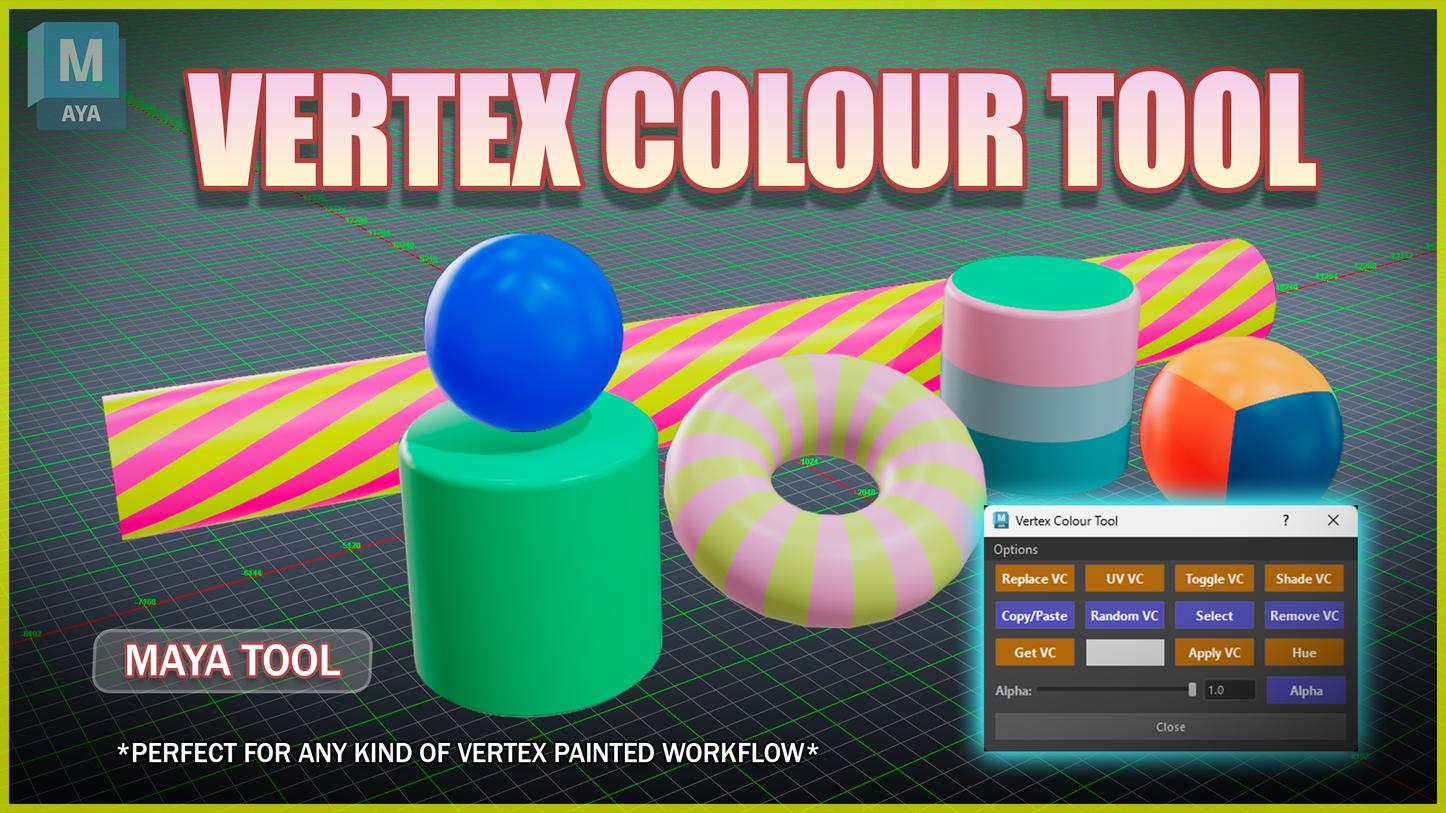
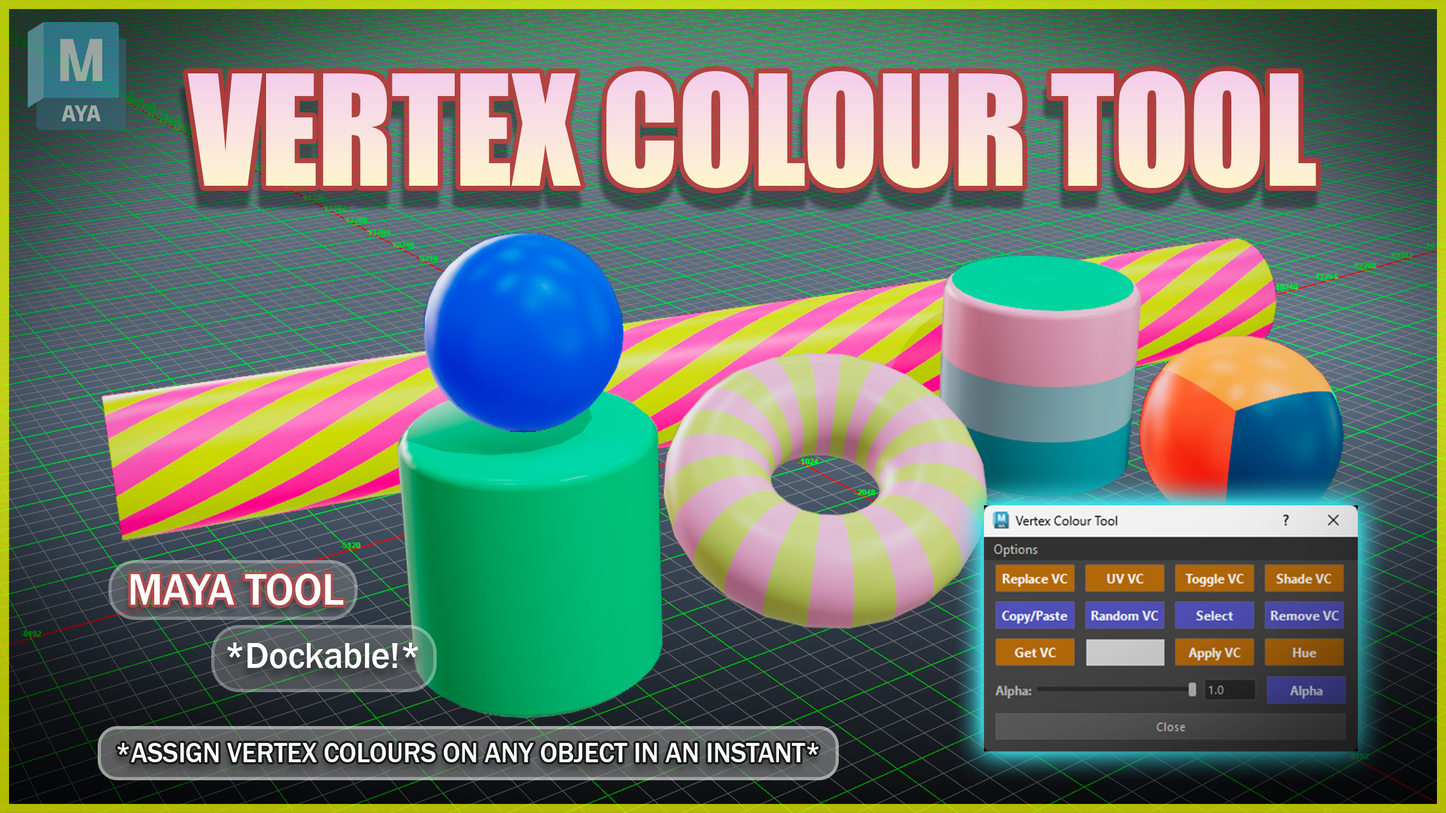
updated docs images
updated docs images

Changed region(s): [[0.0625, 0.6875, 0.5938, 0.9688]]

diff --git a/docs/Batch Material Creation/Breakdown.md b/docs/Batch Material Creation/Breakdown.md
@@ -263,6 +263,80 @@ The Swap Texture feature allows you to instantly swap texture maps *(such as Alb
 
     ![Batch Exporter Window](images/Batch_Material_Creation_Swap_1.png){ .img-small .img-centered} 
 
+
+
+
+## <span style="color:rgb(199, 192, 99);">**Stored Paths**</span>
+
+The path field is a dropdown that remembers the folders you use. Paths are stored globally, so they persist across scenes and Maya sessions. 
+
+???+ Tip "Tip - Long Paths"
+    * Long paths that don't fit in the field can be read in full by hovering the dropdown entry (tooltip).
+
+
+
+
+<figure style="text-align: center;">
+    <img src="../../Batch Material Creation/images/BMC_Temp_Paths_1.gif" ...>
+    <figcaption><span style="color:rgba(22, 165, 110, 1);">Storing Temp paths from folder dropping</span></figcaption>
+</figure>
+
+
+
+### How paths get stored
+
+- A folder is added to the top of the dropdown whenever you:
+
+    * Pick a folder through the browse dialog
+    * Type or paste a valid path and press Enter (or click away from the field)
+    * Drag and drop one or more folders from Explorer anywhere onto the tool window
+    * Use the path in an export / import / material creation
+
+### Pinned favorites (<span style="color:rgb(199, 192, 99);">**★**</span>)
+
+- Click the star button next to the path field to pin the current folder as a favorite.
+
+    <figure style="text-align: center;">
+        <img src="../../Batch Material Creation/images/BMC_Temp_Paths_3.gif" ...>
+        <figcaption><span style="color:rgba(22, 165, 110, 1);">Pinning Favorites</span></figcaption>
+    </figure>
+
+
+    * Favorites always stay at the top of the dropdown, marked with a gold star.
+    * Favorites never fall out of the list and survive "clear all recent paths".
+    * Favorites are protected from deletion — unpin them first (click the star again) to remove them.
+
+
+### Missing folder detection
+
+- Every time you open the dropdown, the tool checks whether each stored folder still exists on disk.
+
+
+    <figure style="text-align: center;">
+        <img src="../../Batch Material Creation/images/BMC_Temp_Paths_2.gif" ...>
+        <figcaption><span style="color:rgba(22, 165, 110, 1);">Missing paths</span></figcaption>
+    </figure>
+
+    * Folders that no longer exist (renamed, moved, or deleted) are shown with a faint red background.
+    * Hovering the entry shows the full path with a "folder no longer exists" note.
+    * The check runs live on every click, so changes on disk show up immediately — no restart needed.
+
+- The path field itself also turns red while it contains an invalid path, and clears back to normal as soon as the path is valid (or the field is emptied).
+
+### Removing stored paths
+
+- All removal shortcuts are on the folder *(Select Folder Path)* button:
+
+    <figure style="text-align: center;">
+        <img src="../../Batch Material Creation/images/BMC_Temp_Paths_4.gif" ...>
+        <figcaption><span style="color:rgba(22, 165, 110, 1);">Removing Paths</span></figcaption>
+    </figure>
+
+    * ++ctrl++ + Click	Delete all recent paths (pinned favorites are kept)
+    * ++ctrl++ + ++shift++ + Click	Remove only the path currently shown in the field
+
+
+
 ## **<span style="color:rgb(71, 187, 119);">Options Menu</span>**
 
 ![Batch Exporter Window](images/Batch_Material_Creation_Buttons_2.png){ .img-small } 
@@ -403,3 +477,13 @@ The Refresh Settings section allows you to fine-tune how the Refresh button beha
 - You don't need to use all channels. Any unchecked options will be ignored during material setup, leaving those shader attributes untouched.
 
 ![Batch Exporter Window](images/Batch_Material_Creation_add_Pref_5.png){ .img-medium} 
+
+
+## **<span style="color:rgb(71, 187, 119);">Dockable</span>** 
+
+- The tool is dockable in the Maya UI.
+
+<figure style="text-align: center;">
+    <img src="../../Batch Material Creation/images/BMC_Dockable_1.gif" ...>
+    <figcaption><span style="color:rgba(22, 165, 110, 1);">Docking the tool</span></figcaption>
+</figure>

diff --git a/docs/Batch Exporter/Breakdown.md b/docs/Batch Exporter/Breakdown.md
@@ -58,6 +58,13 @@ The path field is a dropdown that remembers the folders you use. Paths are store
 ???+ Tip "Tip - Long Paths"
     * Long paths that don't fit in the field can be read in full by hovering the dropdown entry (tooltip).
 
+### <span style="color:rgb(199, 192, 99);">**Difference between Stored paths and Additional paths**</span> 
+
+- **Recent Paths (the dropdown)** — just a memory helper. The tool remembers the last 10 folders you've used, plus any you've pinned as favorites (★), and offers them in the dropdown so you don't have to browse again. They're saved in Maya itself, so you see the same list in every scene. Picking one doesn't export anywhere — it just fills in the main Export Path for you.
+
+
+
+- **Additional Export Paths (the drawer)** — actual extra destinations. Each row is a folder your files can export to, with a checkbox to turn it on. Check two or more and your files go to all of them at once; check none and everything goes to the main Export Path. These are saved inside the scene file, so they come back when you reopen that scene *(for more info on Additional Paths click [**here**](#additional-export-paths))*.
 
 
 ## <span style="color:rgb(199, 192, 99);">**How to export**</span>
@@ -349,5 +356,15 @@ Move to Origin will move your objects to the World Origin (0,0,0), export them a
 ## <span style="color:rgb(199, 192, 99);">**Single Export**</span>
 
 [Link to Single Export documentation](../Batch%20Exporter/Buttons_overview.md#single-export){ .md-button .md-button--primary }
+
+
+## **<span style="color:rgb(71, 187, 119);">Dockable</span>** 
+
+- The tool is dockable in the Maya UI.
+
+<figure style="text-align: center;">
+    <img src="../../Batch Exporter/images/Batch_Exporter_Dockable_1.gif" ...>
+    <figcaption><span style="color:rgba(22, 165, 110, 1);">Docking the tool</span></figcaption>
+</figure>
 
 

diff --git a/docs/Select_nth_edge_face_vert/index.md b/docs/Select_nth_edge_face_vert/index.md
@@ -30,6 +30,16 @@ Blazing fast — built on the OpenMaya API
 
 - The Selection Sets module provides a lightweight, keyboard-driven manager for creating, querying, modifying, and selecting Maya objectSet nodes directly from the tool interface—without opening the Outliner or Set Editor.
 
+### <span style="color:rgb(125, 127, 247);">Dockable</span>
+
+- The tool can be integrated within Maya's UI.
+
+<figure markdown="1" style="text-align: center;">
+  ![Pattern Selection on Faces](../Select_nth_edge_face_vert/images/Select_nth_Dockable_1.gif){ .img-medium .img-centered }
+  <figcaption><span style="color: rgba(22, 165, 110, 1);">Docking the tool</span></figcaption>
+</figure>
+
+
 
 ### <span style="color:rgb(125, 127, 247);">Options Menu</span>
 

diff --git a/docs/Batch Material Creation/index.md b/docs/Batch Material Creation/index.md
@@ -25,6 +25,8 @@ Whether you're building massive environment scenes or prepping prop hero assets,
 
 - <span style="color:rgb(171, 199, 69);">Flexible Suffix Mapping & Prefix Controls</span>: Customize naming conventions *(Albedo, Normal, Mask, Opacity)* and automatically handle material prefix overrides (such as converting T_ texture naming to customized material prefixes like MI_).
 
+- <span style="color:rgb(171, 199, 69);">Fully Dockable</span>: The tool can be integrated within Maya's UI. .
+
 ## **<span style="color:rgb(71, 187, 119);">Asset & Scene Maintenance</span>**
 
 - <span style="color:rgb(171, 199, 69);">Refresh & Relink</span>: Missing a map? Instantly scan your folders to find and reconnect lost textures.

diff --git a/docs/Rename Tool/Breakdown.md b/docs/Rename Tool/Breakdown.md
@@ -241,6 +241,14 @@ The <span style="color:rgb(25, 214, 110);">**Select**</span> button is much more
     <figcaption><span style="color:rgba(22, 165, 110, 1);">Delete Empty Groups</span></figcaption>
     </figure>
 
+## <span style="color:rgb(25, 214, 110);">**Docking**</span> 
+- The tool is dockable in the Maya UI.
+
+    <figure markdown>
+    ![Rename](images/Rename_Tool_Docking_1.gif){ .img-medium }
+    <figcaption><span style="color:rgba(22, 165, 110, 1);">Docking</span></figcaption>
+    </figure>
+
 ## <span style="color:rgb(25, 214, 110);">**Important Info**</span> 
 
 - If your order of selection is not renamed correctly please ensure [track selection order](#config-Warning) is checked in the settings.

diff --git a/docs/Batch Exporter/index.md b/docs/Batch Exporter/index.md
@@ -26,7 +26,7 @@ The tool also allows to export objects as a  <span style="color:lime">single fil
 * <span style="color:lime">Warn user of existing files</span> - Does what it says. 
 * <span style="color:lime">Import</span> - Batch Imports files.
 * <span style="color:lime">Freeze transforms</span> - Freezes transforms for Translate, Rotate and Scale.
-* <span style="color:lime">Additional Export Paths</span> - Allows for storing and exporting to multiple folder paths at the same time.
+* <span style="color:lime">Fully Dockable</span> - The tool can be integrated within Maya's UI.
 
 
 <span style="color:pink">Baking Workflow options</span>:

diff --git a/docs/Vertex Colours Tool/Buttons_Breakdown.md b/docs/Vertex Colours Tool/Buttons_Breakdown.md
@@ -381,6 +381,15 @@
 * <span style="color:rgb(199, 192, 99);">Store</span> - Opens links to ArtStation and Gumroad.
 
 
+## <span style="color:rgb(238, 235, 77);">Dockable</span>
+
+- The tool can be integrated within Maya's UI.
+
+<figure style="text-align: center;">
+<img src="../images/VCT_Docking_1.gif" class="img-medium" alt="Vertex Paint_Tool_Alpha_3">
+<figcaption><span style="color:rgba(22, 165, 110, 1);">Docking the tool</span></figcaption>
+</figure>
+
 ## <span style="color:rgb(238, 235, 77);">Important Reminders</span>
 
 ### <span style="color:rgb(96, 192, 139);">Track Selection order</span>

diff --git a/docs/Rename Tool/index.md b/docs/Rename Tool/index.md
@@ -38,6 +38,8 @@ Built to handle heavy production scenes, it combines <span style="color:rgb(255,
 
     ![Speed Trim 1](images/Rename_Tool_5.jpg){ .img-small }
     
+    * <span style="color:rgba(25, 214, 110);">**Fully Dockable**</span>: The tool can be integrated within Maya's UI.
+
 
 ### <span style="color:rgba(25, 214, 110);">**Options Dropdown Window**</span> ###
 

diff --git a/docs/Quick Sweep Mesh/index.md b/docs/Quick Sweep Mesh/index.md
@@ -2,7 +2,7 @@
 
 ## <span style="color:rgb(221, 137, 59);">**Intro**</span>
 
-![Quick_Sweep_1](images/Quick_Sweep_1.png){ .img-large .img-centered }
+![Quick_Sweep_1](images/Quick_Sweep_1.png){ .img-large}
 
 ??? Tip "Maya Versions"
     *Tested in Maya 2022-2027*
